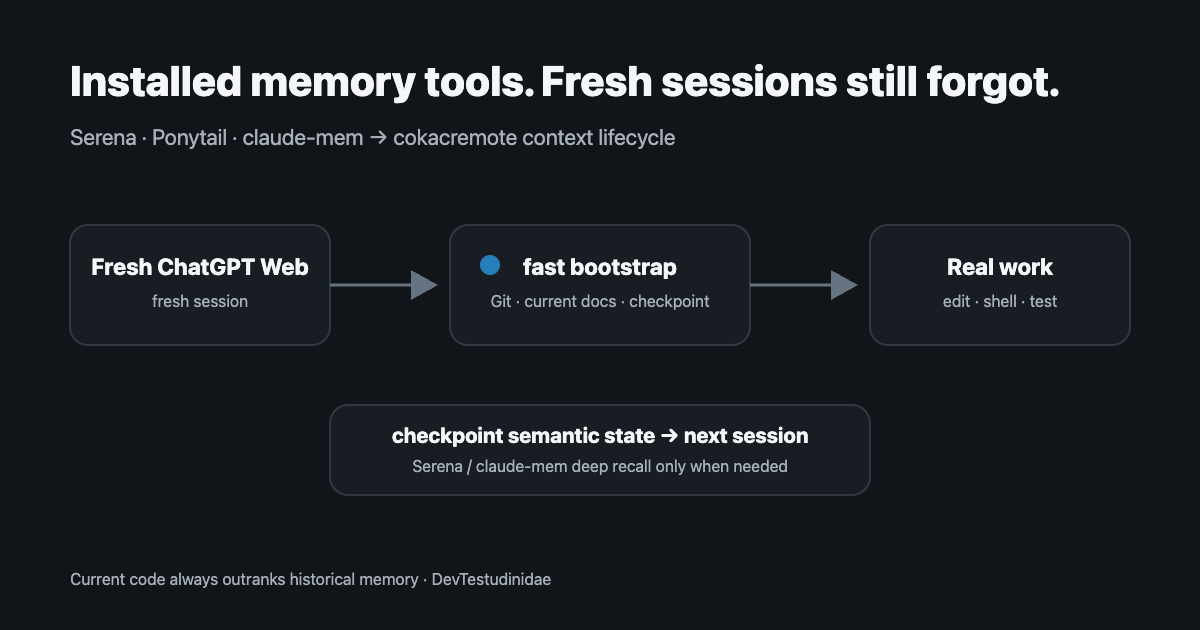
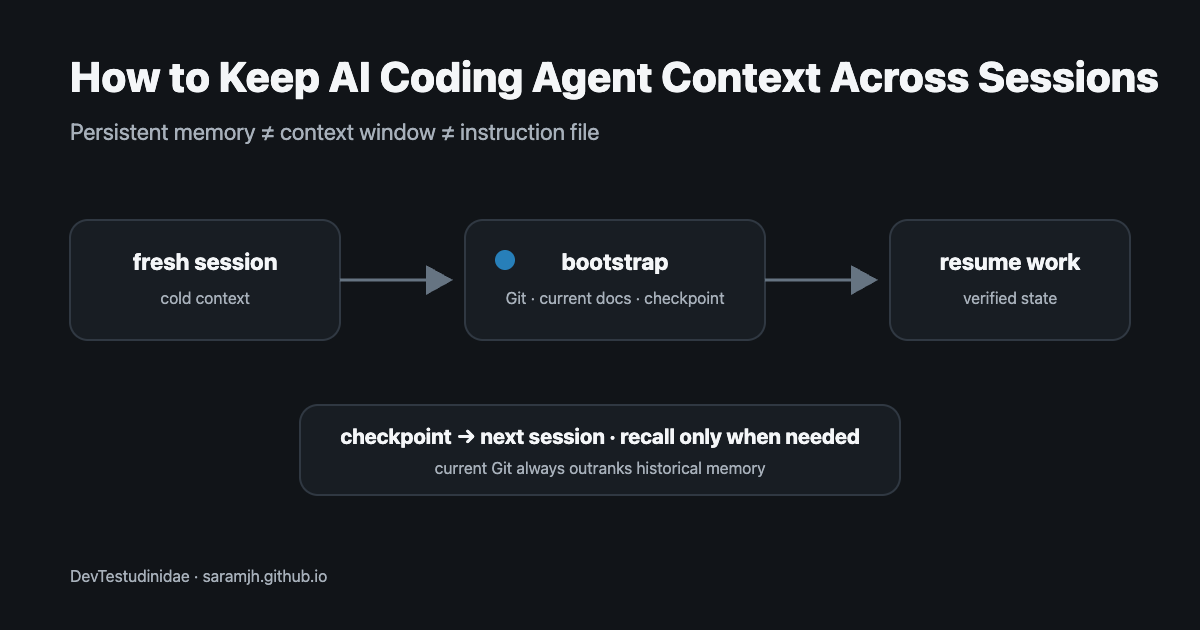
fix(posts): align new guides with SERP intent

diff --git a/_posts/en-ai-coding-context-continuity-cokacremote/2026-10-05-en-ai-coding-context-continuity-cokacremote.md b/_posts/en-ai-coding-context-continuity-cokacremote/2026-10-05-en-ai-coding-context-continuity-cokacremote.md
@@ -1,5 +1,5 @@
 ---
-title: "I Installed Serena, Ponytail and claude-mem. New Sessions Still Forgot the Project."
+title: "How to Keep AI Coding Agent Context Across Sessions (Persistent Memory)"
 date: 2026-10-05
 tags: Serena, Ponytail, claude-mem, cokacremote, ChatGPT MCP, AI coding, context continuity, coding agent memory, project memory
 permalink: /en-ai-coding-context-continuity-cokacremote/
@@ -7,13 +7,17 @@ layout: default
 lang: en
 alternate_lang: ko
 alternate_url: /ai-coding-context-continuity-cokacremote/
-description: "I had Serena, Ponytail and claude-mem installed, but new AI coding sessions still did not reliably resume the project. I solved it by adding bootstrap, checkpoint and on-demand recall to cokacremote."
-excerpt: "Installing memory/context tools is not the same as having a working continuity lifecycle. I ended up making Git and current project docs authoritative, checkpointing meaningful changes, and using memory retrieval only when needed."
+description: "Why AI coding agents lose project context between sessions, and how to preserve it with persistent memory, instruction files, checkpoints and on-demand recall. Includes the real Serena, claude-mem, Ponytail and cokacremote design I ended up using."
+excerpt: "Persistent coding-agent memory is not the same as a large context window or an AGENTS.md file. This is the bootstrap, checkpoint and recall lifecycle I built so a fresh session can resume the actual project state."
 seo:
-  title: "AI Coding Context Continuity: Serena, claude-mem & cokacremote"
-  description: "Serena, Ponytail and claude-mem did not automatically preserve project context across sessions. Here is the bootstrap, checkpoint and deep-recall structure I built into cokacremote."
+  title: "How to Keep AI Coding Agent Context Across Sessions (Persistent Memory)"
+  description: "Keep AI coding agent context across sessions with persistent memory, instruction files and checkpoints. A practical design using Git truth, Serena, claude-mem and cokacremote."
   keywords:
     - AI coding context continuity
+    - AI coding agent persistent memory
+    - keep context across coding sessions
+    - coding agent memory
+    - context engineering
     - ChatGPT session context
     - Serena memory
     - claude-mem
@@ -22,39 +26,49 @@ seo:
     - MCP context
     - coding agent memory
 faq:
+  - q: "Why do AI coding agents lose project context between sessions?"
+    a: "A context window is working memory for the current run, not durable project state. A fresh session needs a separate path to reload rules, checkpoints, decisions and any persistent memory that should survive the previous session."
+  - q: "Is AGENTS.md or CLAUDE.md enough for cross-session context?"
+    a: "They are useful for durable instructions and project conventions, but they do not automatically track dynamic state such as the active task, rejected approaches, blockers, verification results and next actions."
+  - q: "Is persistent memory the same thing as a context window?"
+    a: "No. The context window is what the model can see during the current inference or session. Persistent memory is information stored outside that window and deliberately restored into a later session."
   - q: "Does installing Serena or claude-mem automatically make new AI sessions remember a project?"
-    a: "No. You still need a lifecycle that decides when to read memory, when to save meaningful state, and what wins if historical memory conflicts with the current code."
+    a: "No. You still need a lifecycle that decides when to capture state, when to retrieve it, and what wins if historical memory conflicts with the current code."
   - q: "Is Ponytail a project-memory system?"
     a: "Not in my setup. Ponytail provides implementation discipline such as YAGNI, reuse and minimum-diff rules. I do not use it as a source of project history."
-  - q: "Did you remove Serena and claude-mem from the final design?"
-    a: "No. They remain optional retrieval layers. Fast bootstrap starts from Git, current project documents, checkpoints and local policy; deeper Serena or claude-mem retrieval runs only when the current state is insufficient."
 image: /en-ai-coding-context-continuity-cokacremote/context-continuity-og.png
 image_width: 1200
 image_height: 630
 ---
 
-# I installed context tools. New sessions still forgot the project.
+# How to keep AI coding agent context across sessions
 
-**Serena, Ponytail and claude-mem were already on my machine. The missing piece was the lifecycle connecting them to real session boundaries.**
+**The missing piece was not another memory package. It was a lifecycle that decides what a fresh session reloads, what gets checkpointed, and which source wins when historical memory conflicts with the current repository.**
 
 <p style="background: rgba(0, 120, 212, 0.08); border-left: 4px solid #0078d4; padding: 10px 14px; margin-bottom: 22px; border-radius: 4px; font-size: 0.95rem;">
   🌐 <strong>한국어 버전:</strong> <a href="/ai-coding-context-continuity-cokacremote/">툴을 깔았는데도 새 세션은 프로젝트를 잊었다</a>
 </p>
 
-After I [connected the ChatGPT web app to my Mac through MCP](/en-chatgpt-mcp-local-development-setup/), the next failure mode became obvious very quickly.
+If you searched for `AI coding agent memory`, `persistent memory`, `keep context across coding sessions`, or `context engineering`, start by separating three different things:
 
-**Being able to see the project files is not the same as carrying the project's intent, rejected approaches, constraints and verified state into a new conversation.**
+| Layer | What it provides | Does it survive a fresh session? |
+|---|---|---|
+| **Context window** | Conversation, files and tool results the model can see right now | Primarily current-session state |
+| **Instruction file** | Repeatable rules in files such as `AGENTS.md` or `CLAUDE.md` | Yes, when the client reloads the file |
+| **Persistent project memory** | Decisions, rejected approaches, blockers, verification state and next actions | Only if you build a capture-and-restore lifecycle |
 
-I already had Serena, Ponytail and claude-mem installed. It is easy to look at names like those and assume that session continuity has effectively been solved.
+A larger context window does **not** replace persistent memory, and a repository instruction file does **not** automatically represent the current state of an in-progress project. That distinction is also the dominant pattern in current search results about coding-agent memory and cross-session continuity.
 
-It had not.
+After I [connected the ChatGPT web app to my Mac through MCP](/en-chatgpt-mcp-local-development-setup/), this became more than an inconvenience. Being able to see the repository is not the same as carrying intent, rejected approaches, constraints and verification state into a new conversation.
+
+I already had Serena, Ponytail and claude-mem installed. **Their presence did not automatically make a fresh session resume the right project state.**
 
 <picture>
   <source media="(max-width: 600px)" srcset="before-context-mobile.svg">
   <img src="before-context.svg" alt="Serena Ponytail and claude-mem installed as separate tools while a fresh ChatGPT session still lacks a deterministic project-context bootstrap" width="1200" height="700" style="width:100%;height:auto;">
 </picture>
 
-## The first mistake: assuming installed tools meant persistent context
+## Why coding agents lose project context between sessions
 
 The roles were different from what I had mentally grouped together.
 
@@ -100,7 +114,7 @@ I needed a system that could answer five practical questions:
 4. Can deep historical retrieval happen only when it is actually needed?
 5. Can the normal startup path stay fast without spawning every memory tool?
 
-## The solution was not another memory tool
+## Cross-session continuity needs capture → authority → restore
 
 I added a **project-context lifecycle** directly into cokacremote.
 
@@ -335,6 +349,17 @@ If the ordinary browser ChatGPT UI is going to act as a long-running development
 The hard part is whether a fresh session can safely resume the project.
 
 At first I expected Serena, Ponytail and claude-mem to solve that individually. The design I use now is the opposite: **cokacremote owns the lifecycle, and each helper is allowed to do only the job it is actually good at.**
+
+## Primary references for the concepts and tools
+
+I cross-checked the distinction between context windows, session memory, project memory, and the intended roles of the tools against their primary sources:
+
+- [OpenAI Cookbook — Short-Term Memory Management with Sessions](https://developers.openai.com/cookbook/examples/agents_sdk/session_memory): session history and context-management patterns
+- [Serena — official repository](https://github.com/oraios/serena): MCP-based semantic code retrieval/editing and project memory
+- [claude-mem — official repository](https://github.com/thedotmack/claude-mem): persistent observations and summaries across sessions
+- [Ponytail — official repository](https://github.com/DietrichGebert/ponytail): an implementation-policy stack centered on YAGNI, reuse, standard/native options and minimum working code; I do not classify it as project memory
+
+These sources do **not** validate my cokacremote design as a universal solution. The implementation details and performance measurements in this post come from my local setup; the links above establish the concepts and the intended roles of the individual tools.
 
 ## What I intentionally left out
 

diff --git a/_posts/en-chatgpt-unlimited-text-vs-codex-limits/2026-10-05-en-chatgpt-unlimited-text-vs-codex-limits.md b/_posts/en-chatgpt-unlimited-text-vs-codex-limits/2026-10-05-en-chatgpt-unlimited-text-vs-codex-limits.md
@@ -1,5 +1,5 @@
 ---
-title: "ChatGPT Text Chats Are Unlimited* — Codex Usage Is Not"
+title: "ChatGPT Message Limits vs Codex Usage Limits (Plus, 2026)"
 date: 2026-10-05
 tags: ChatGPT, unlimited ChatGPT, ChatGPT text chats, Codex, Codex usage limits, Codex credits, AI coding, MCP
 permalink: /en-chatgpt-unlimited-text-vs-codex-limits/
@@ -7,50 +7,64 @@ layout: default
 lang: en
 alternate_lang: ko
 alternate_url: /chatgpt-unlimited-text-vs-codex-limits/
-description: "OpenAI's current pricing table marks everyday text chats as unlimited* on Free, Go, Plus and Pro, while Codex has separate usage limits and credits. Here is what is actually unlimited and what is not."
-excerpt: "The ordinary ChatGPT conversation UI and Codex do not use the same allowance structure. This post separates unlimited everyday text chats from model, tool and Codex limits using current OpenAI documentation."
+description: "As of October 2026, ordinary ChatGPT text chats and Codex do not share the same limit. This guide covers current Plus Codex model ranges, shared local/cloud usage, weekly limits and where to check remaining usage."
+excerpt: "ChatGPT everyday text chats are unlimited* under the personal-plan ladder, while Codex has separate model-dependent usage limits. Here are the current Plus ranges and how to check your actual allowance."
 seo:
-  title: "ChatGPT Unlimited Text Chats vs Codex Usage Limits"
-  description: "ChatGPT everyday text chats are unlimited* on personal plans, while Codex has separate usage limits. The exact difference between chat, tools, reasoning models and Codex."
+  title: "ChatGPT Message Limits vs Codex Usage Limits (Plus, 2026)"
+  description: "ChatGPT text chat limits are not Codex limits. See current Plus Codex usage ranges, shared local/cloud allowance, weekly limits and /status checks for 2026."
   keywords:
     - ChatGPT unlimited messages
     - ChatGPT unlimited text chats
+    - ChatGPT Plus Codex usage limit
+    - Codex Plus limits 2026
     - ChatGPT message limit
     - Codex usage limits
     - Codex credits
     - ChatGPT vs Codex
 faq:
-  - q: "Are ChatGPT text chats really unlimited?"
-    a: "As of October 2026, OpenAI's pricing table marks Everyday text chats as Unlimited for Free, Go, Plus and Pro, subject to abuse-prevention guardrails. Files, images, voice, advanced reasoning models, tools and Codex can have separate limits."
+  - q: "Are ordinary ChatGPT text chats really unlimited?"
+    a: "As of October 5, 2026, the pricing ladder shows unlimited everyday text chat under the personal plans, subject to abuse-prevention safeguards. Files, images, voice, advanced reasoning models and tools can have separate limits."
+  - q: "How many Codex messages do I get with ChatGPT Plus?"
+    a: "There is no single fixed count. OpenAI currently publishes estimated Plus ranges by model, including GPT-6.1 Sol 15–160, GPT-6 Astra 5–45, GPT-6 Sol 15–150, GPT-6 Luna 350–3,000, GPT-5.6 Sol 10–100 and GPT-5.6 Luna 250–2,000. Actual usage varies by workload."
+  - q: "Do local Codex messages and cloud chats use separate limits?"
+    a: "No. OpenAI says local messages and cloud chats share your plan's usage allowance, and weekly limits may also apply."
   - q: "If ChatGPT chats are unlimited, is Codex unlimited too?"
-    a: "No. Codex included with personal ChatGPT plans has separate usage limits that vary by plan, model and task. When you reach a limit you may need to wait for a reset or use credits if they are available to your account."
+    a: "No. Codex has a separate usage-limit and credit structure. Check the Codex usage dashboard or /status in Codex CLI for your current remaining allowance and reset timing."
   - q: "Does unlimited chat mean one thread has unlimited context?"
-    a: "No. Message allowance and context length are different. A long conversation is still subject to context, memory and session behavior; unlimited chat does not mean infinite memory in one thread."
+    a: "No. Message allowance and context length are different. Unlimited chat does not mean infinite memory in one thread."
 image: /en-chatgpt-unlimited-text-vs-codex-limits/chatgpt-vs-codex-og.png
 image_width: 1200
 image_height: 630
 ---
 
-# ChatGPT everyday text chats are unlimited*
+# ChatGPT message limits vs Codex usage limits
 
-**Codex usage is not. Those two limits are easy to conflate because they live under the same ChatGPT account.**
+**As of October 5, 2026, ordinary ChatGPT text chat and Codex do not use the same allowance model. Codex has separate model-dependent usage limits, and local messages plus cloud chats draw from the same plan allowance.**
 
 <p style="background: rgba(0, 120, 212, 0.08); border-left: 4px solid #0078d4; padding: 10px 14px; margin-bottom: 22px; border-radius: 4px; font-size: 0.95rem;">
-  🌐 <strong>한국어 버전:</strong> <a href="/chatgpt-unlimited-text-vs-codex-limits/">웹 ChatGPT 일반 텍스트 채팅은 무제한이다*</a>
+  🌐 <strong>한국어 버전:</strong> <a href="/chatgpt-unlimited-text-vs-codex-limits/">ChatGPT 메시지 제한 vs Codex Plus 사용량 한도</a>
 </p>
 
-While writing about [using the ChatGPT web app as a control surface for my local Mac](/en-chatgpt-mcp-local-development-setup/), I rechecked a distinction that seems surprisingly easy to miss.
+If you searched for `ChatGPT message limit`, `ChatGPT Plus Codex limit`, or `Codex usage limits`, the short answer is:
 
-**The ordinary text-chat experience in ChatGPT is currently listed as unlimited* in OpenAI's pricing table.** Free, Go, Plus and Pro all show `Unlimited*` for `Everyday text chats`.
+| Question | Answer as of Oct. 5, 2026 |
+|---|---|
+| Ordinary ChatGPT text chat | **Unlimited*** under the personal-plan ladder, subject to abuse-prevention safeguards |
+| Codex on ChatGPT Plus | **Not unlimited.** OpenAI publishes model-specific estimated usage ranges |
+| Local Codex messages vs cloud chats | **They share the plan allowance** |
+| Weekly limits | **May also apply** |
+| Where to check the real remaining limit | Codex usage dashboard or **`/status`** in Codex CLI |
 
-**Codex has a separate usage system.** Even when Codex is included in the same ChatGPT subscription, its allowance depends on plan, model, task complexity and the usage pool available to the account.
+So the practical mistake is treating every request under one ChatGPT subscription as if it came out of one message bucket. **Ordinary browser ChatGPT conversation and Codex are separate usage surfaces.**
+
+I ran into this distinction while [using the ChatGPT web app as a control surface for my local Mac](/en-chatgpt-mcp-local-development-setup/).
 
 <picture>
   <source media="(max-width: 600px)" srcset="chat-vs-codex-mobile.svg">
   <img src="chat-vs-codex.svg" alt="Comparison between unlimited everyday ChatGPT text chats and separate Codex usage limits" width="1200" height="660" style="width:100%;height:auto;">
 </picture>
 
-## What "unlimited" actually means
+## What "unlimited ChatGPT text chat" actually means
 
 The unlimited item in OpenAI's pricing table is **everyday text chats**.
 
@@ -77,11 +91,25 @@ It is not.
 
 File uploads, image generation, voice, data analysis, deep research, some advanced reasoning models and tools can have their own limits. OpenAI's Help Center explicitly separates unlimited everyday text chats from these other allowances.
 
-## Codex uses a different allowance structure
+## How many Codex messages does ChatGPT Plus actually include?
 
-The Codex pricing page has an explicit **usage limits** table.
+The Codex pricing page has an explicit **usage limits** table. As of October 5, 2026, the English pricing page publishes these estimated Plus ranges:
 
-For personal plans, Codex usage varies with the selected model and the work being done. The usage dashboard shows the remaining allowance and reset state. If you run out, the available options can include switching to a cheaper model, waiting for a reset, or using additional credits when the account is eligible.
+| Codex model | Plus estimated usage |
+|---|---:|
+| GPT-6.1 Sol | 15–160 |
+| GPT-6 Astra | 5–45 |
+| GPT-6 Sol | 15–150 |
+| GPT-6 Luna | 350–3,000 |
+| GPT-5.6 Sol | 10–100 |
+| GPT-5.6 Luna | 250–2,000 |
+| GPT-5.5 | 15–80 |
+
+These are **estimated ranges, not guaranteed message counts**. Usage varies with model, task complexity, context, reasoning, where the task runs and the tools involved. OpenAI also states that **local messages and cloud chats share the plan allowance, and weekly limits may apply**.
+
+So the best answer to “how many Codex messages do I get on Plus?” is: **it depends on the model and workload, and your usage dashboard is the authoritative current value**. In an active Codex CLI session, `/status` shows the remaining allowance.
+
+If you run out, the available options can include switching to a lower-cost model, waiting for the reset, or using credits when your account offers them.
 
 A useful mental model is:
 

diff --git a/_posts/en-chatgpt-mcp-local-development-setup/2026-10-04-en-chatgpt-mcp-local-development-setup.md b/_posts/en-chatgpt-mcp-local-development-setup/2026-10-04-en-chatgpt-mcp-local-development-setup.md
@@ -223,8 +223,8 @@ No. A tunnel provides connectivity, not authorization. A write-capable MCP serve
 
 ## Continue reading
 
-- [ChatGPT Text Chats Are Unlimited* — Codex Usage Is Not](/en-chatgpt-unlimited-text-vs-codex-limits/)
-- [I Installed Serena, Ponytail and claude-mem. New Sessions Still Forgot the Project.](/en-ai-coding-context-continuity-cokacremote/)
+- [ChatGPT Message Limits vs Codex Usage Limits (Plus, 2026)](/en-chatgpt-unlimited-text-vs-codex-limits/)
+- [How to Keep AI Coding Agent Context Across Sessions](/en-ai-coding-context-continuity-cokacremote/)
 
 ## References
 
